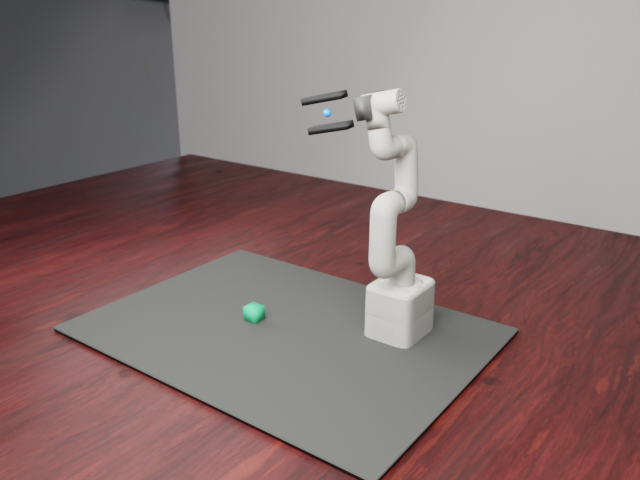
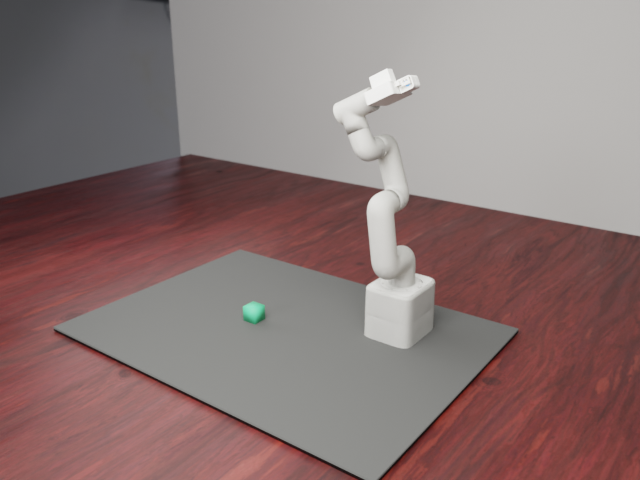
Use official MyCobot gripper meshes in render preview

Changed region(s): [[0.4688, 0.125, 0.6562, 0.4688], [0.5625, 0.5312, 0.5938, 0.5625]]

diff --git a/scripts/render_mycobot_blender_probe.py b/scripts/render_mycobot_blender_probe.py
@@ -12,6 +12,9 @@ from pathlib import Path
 from typing import Any
 
 from physical_ai_agent.sim.mycobot_nexus_env import (
+    MODEL_PROFILE_280_JN,
+    MODEL_PROFILE_320_ADAPTIVE_GRIPPER,
+    MODEL_PROFILE_320_GRIPPER,
     MyCobotNexusConfig,
     MyCobotNexusEnv,
     sample_mycobot_nexus_action,
@@ -334,7 +337,22 @@ def main() -> None:
         "--asset-root",
         type=Path,
         default=Path("_vendor/mycobot_mujoco"),
-        help="Local clone of https://github.com/elephantrobotics/mycobot_mujoco.",
+        help="Local clone of https://github.com/elephantrobotics/mycobot_mujoco for the 280-jn profile.",
+    )
+    parser.add_argument(
+        "--official-gripper-root",
+        type=Path,
+        help="Local clone of elephantrobotics/mycobot_ros or mycobot_ros2 for official gripper profiles.",
+    )
+    parser.add_argument(
+        "--model-profile",
+        choices=(MODEL_PROFILE_280_JN, MODEL_PROFILE_320_GRIPPER, MODEL_PROFILE_320_ADAPTIVE_GRIPPER),
+        default=MODEL_PROFILE_280_JN,
+        help=(
+            "Robot/gripper source profile. 280-jn falls back to a synthetic gripper "
+            "unless official 280 gripper assets are supplied by the source model; "
+            "320 profiles import official gripper meshes from --official-gripper-root."
+        ),
     )
     parser.add_argument("--output-dir", type=Path, default=Path("_workspace/mycobot_blender_probe"))
     parser.add_argument("--seed", type=int, default=7)
@@ -354,6 +372,8 @@ def main() -> None:
     args.output_dir.mkdir(parents=True, exist_ok=True)
     result = render_mycobot_blender_probe(
         asset_root=args.asset_root,
+        official_gripper_root=args.official_gripper_root,
+        model_profile=args.model_profile,
         output_dir=args.output_dir,
         seed=args.seed,
         warmup_steps=args.warmup_steps,
@@ -373,6 +393,8 @@ def main() -> None:
 def render_mycobot_blender_probe(
     *,
     asset_root: Path,
+    official_gripper_root: Path | None,
+    model_profile: str,
     output_dir: Path,
     seed: int,
     warmup_steps: int,
@@ -396,6 +418,8 @@ def render_mycobot_blender_probe(
         MyCobotNexusConfig(
             asset_root=asset_root,
             work_dir=output_dir / "mycobot_scene",
+            official_gripper_root=official_gripper_root,
+            model_profile=model_profile,
             width=width,
             height=height,
         )
@@ -452,6 +476,8 @@ def render_mycobot_blender_probe(
         "image_path": str(image_path),
         "comparison_path": str(comparison_path) if comparison_path else None,
         "asset_root": str(asset_root),
+        "official_gripper_root": str(official_gripper_root) if official_gripper_root else None,
+        "model_profile": model_profile,
         "mesh_dir": str(mesh_dir),
         "mesh_geoms_exported": len(exported),
         "primitive_geoms_exported": len(primitives),
@@ -490,6 +516,8 @@ def _export_primitive_geoms(model: Any, data: Any) -> list[dict[str, Any]]:
             continue
         name = model.geom(geom_id).name or f"geom_{geom_id:03d}"
         rgba = _geom_rgba(model, geom_id)
+        if len(rgba) >= 4 and rgba[3] <= 0.01:
+            continue
         primitives.append(
             {
                 "geom_id": geom_id,

diff --git a/docs/research/2026_07_04/so101_photoreal_render_pipeline/README.md b/docs/research/2026_07_04/so101_photoreal_render_pipeline/README.md
@@ -81,17 +81,22 @@ checking simulation states with more realistic lighting/materials.
 
 ## MyCobot Render
 
-The same sidecar approach also works for the local MyCobot Nexus scene. The
-renderer exports MuJoCo mesh geoms plus box primitives such as the cube, work
-mat, palm, and finger pads, then path-traces the static state in Blender:
+The same sidecar approach also works for the local MyCobot Nexus scene. Pass
+`--official-gripper-root` to render the official parallel gripper meshes from
+`mycobot_ros`; without those assets, the 280 scene falls back to a synthetic
+collision proxy gripper that is useful for contact tests but not for visual
+evidence. The renderer exports MuJoCo mesh geoms plus visible box primitives
+such as the cube and work mat, then path-traces the static state in Blender:
 
 ```bash
 PYTHONPATH=src .venv/bin/python scripts/render_mycobot_blender_probe.py \
   --asset-root _workspace/_vendor/mycobot_mujoco \
+  --official-gripper-root _workspace/_vendor/mycobot_ros \
+  --model-profile 280-jn \
   --render-asset-root _workspace/photoreal_assets \
   --output-dir _workspace/mycobot_blender_probe \
   --seed 7 \
-  --warmup-steps 8 \
+  --warmup-steps 0 \
   --width 640 \
   --height 480 \
   --samples 256 \
@@ -107,7 +112,8 @@ The measured local example on this Mac was:
 - samples: `256`
 - denoise: enabled
 - material: `matte_pla`
-- render time: `5.83s`
+- model profile: `280-jn` with official `mycobot_ros` parallel gripper meshes
+- render time: `3.22s`
 
 ## Assets
 